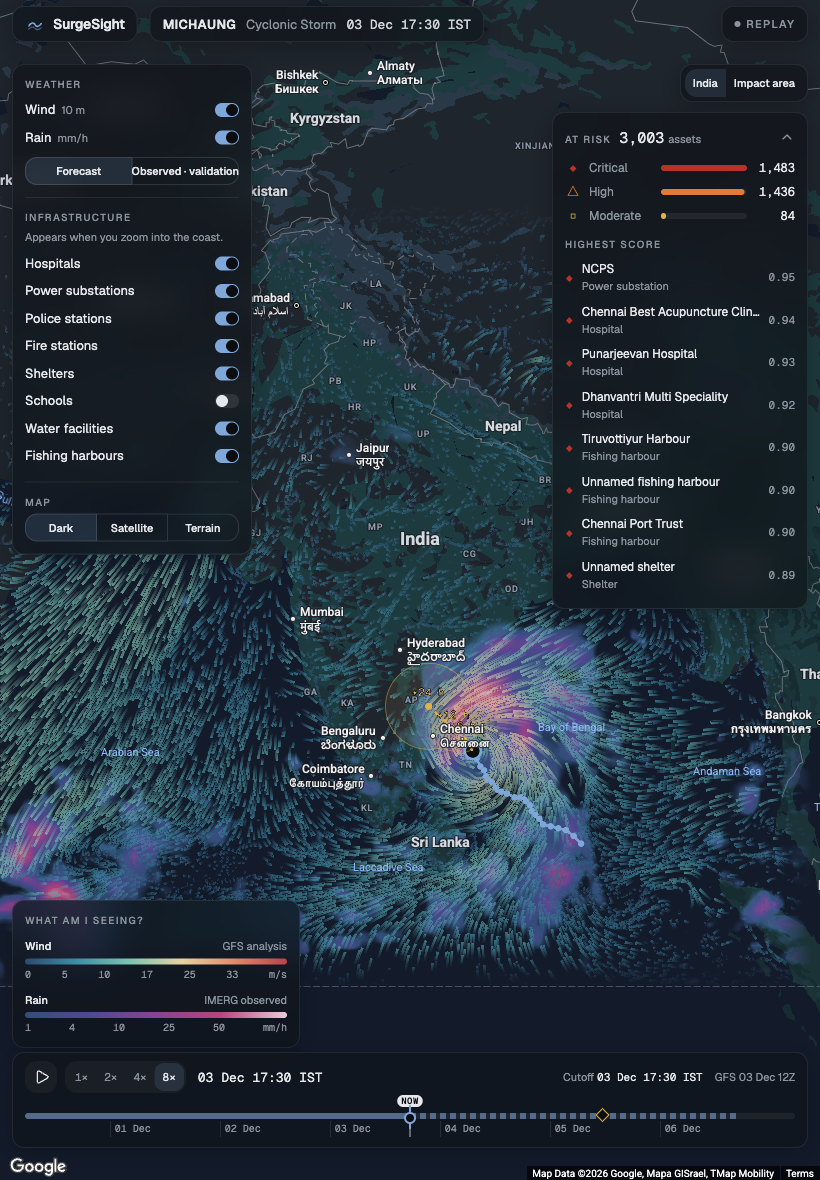
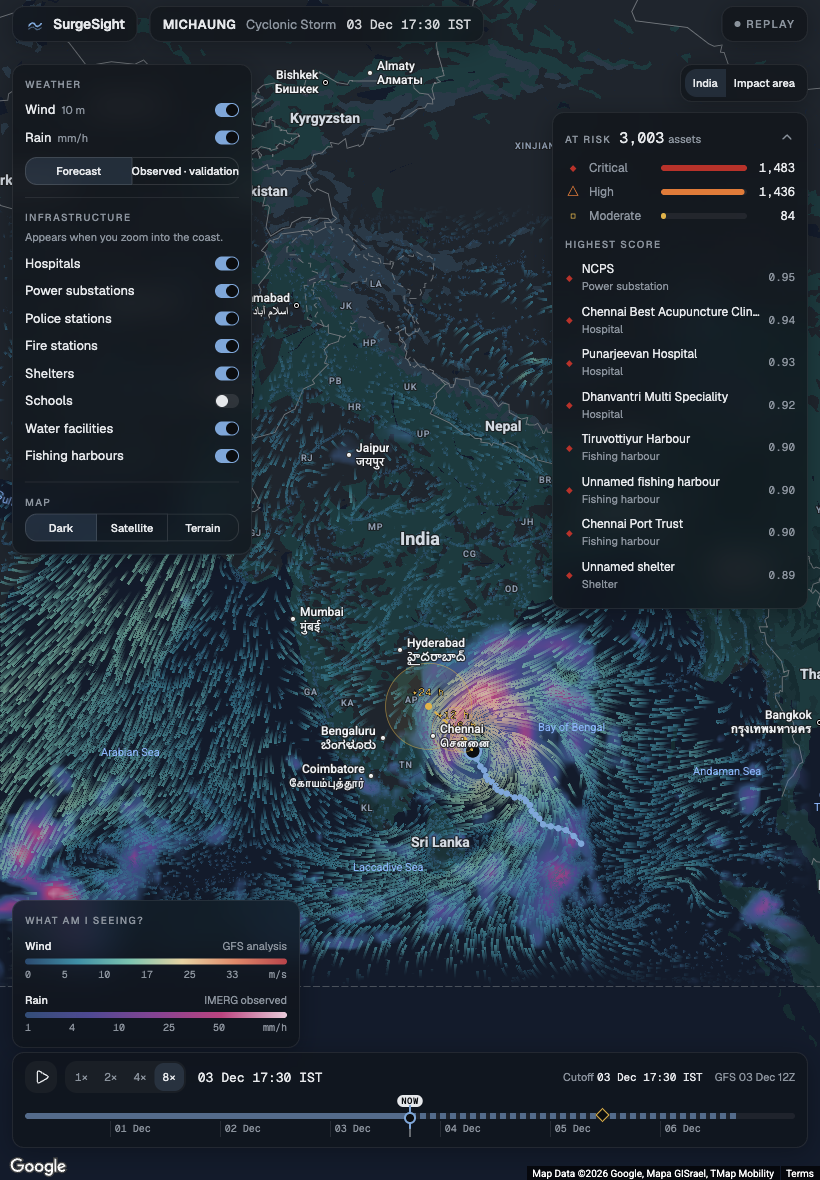
feat(web): add a landing page with live and storm tiles, path routing and a catalog API

diff --git a/frontend/src/app/Landing.tsx b/frontend/src/app/Landing.tsx
@@ -1,0 +1,85 @@
+import { useQuery } from '@tanstack/react-query'
+import { CloudSun, History } from 'lucide-react'
+import { api, type CatalogTile } from '@/lib/api'
+import { onLinkClick, pathFor } from './router'
+
+function Tile({ tile }: { tile: CatalogTile }) {
+  const live = tile.kind === 'live'
+  const ready = tile.status === 'available'
+  const path = pathFor(live ? { name: 'live' } : { name: 'storm', id: tile.id })
+  const Icon = live ? CloudSun : History
+  const body = (
+    <>
+      <div className="flex items-center justify-between">
+        <Icon className="size-5 text-primary" aria-hidden />
+        <span className={`rounded-full px-2 py-0.5 text-[10px] font-medium tracking-[0.12em] uppercase ${ready ? 'bg-primary/15 text-primary' : 'bg-white/5 text-muted-foreground'}`}>
+          {!ready ? 'Coming soon' : live ? 'Live' : 'Replay'}
+        </span>
+      </div>
+      <h2 className="mt-6 text-lg font-semibold tracking-tight">
+        {tile.name}
+        {tile.year && <span className="num ml-2 text-sm font-normal text-muted-foreground">{tile.year}</span>}
+      </h2>
+      <p className="mt-1.5 text-[13px] leading-relaxed text-muted-foreground">{tile.blurb}</p>
+    </>
+  )
+  const cls = 'panel flex min-h-44 flex-col p-5 text-left transition-colors'
+  return ready ? (
+    <a href={path} onClick={e => onLinkClick(e, path)} className={`${cls} hover:bg-white/[0.06] focus-visible:outline-2 focus-visible:outline-primary`}>
+      {body}
+    </a>
+  ) : (
+    <div className={`${cls} opacity-60`} aria-disabled="true">
+      {body}
+    </div>
+  )
+}
+
+export function Landing() {
+  const { data, isError, refetch } = useQuery({ queryKey: ['catalog'], queryFn: api.catalog, staleTime: 60_000 })
+  const live = data?.tiles.filter(t => t.kind === 'live') ?? []
+  const storms = data?.tiles.filter(t => t.kind === 'storm') ?? []
+  return (
+    <main className="min-h-full overflow-y-auto bg-background px-4 pt-[max(2rem,env(safe-area-inset-top))] pb-10">
+      <div className="mx-auto max-w-4xl">
+        <div className="flex items-center gap-2">
+          <svg viewBox="0 0 32 32" className="size-6" aria-hidden>
+            <path d="M6 19c4-6 8-6 10-2s6 4 10-2" fill="none" stroke="var(--primary)" strokeWidth="2.5" strokeLinecap="round" />
+            <path d="M6 24c4-4 8-4 10-1s6 3 10-1" fill="none" stroke="var(--primary)" strokeOpacity=".5" strokeWidth="2" strokeLinecap="round" />
+          </svg>
+          <span className="text-base font-semibold tracking-tight">SurgeSight</span>
+        </div>
+        <h1 className="mt-10 text-3xl font-semibold tracking-tight max-sm:text-2xl">Cyclone impact, before it lands</h1>
+        <p className="mt-3 max-w-2xl text-[15px] leading-relaxed text-muted-foreground">
+          A read-only view for officials and responders: weather across India, the storm track, and which hospitals, power stations and shelters are most exposed. No sign-in needed.
+        </p>
+
+        {isError && (
+          <div role="alert" className="panel mt-8 flex items-center justify-between gap-4 p-4 text-sm text-[#E0B34A]">
+            The list of views could not be loaded. Check the connection.
+            <button type="button" onClick={() => refetch()} className="rounded-lg px-3 py-1.5 text-foreground ring-1 ring-white/15 hover:bg-white/5">
+              Try again
+            </button>
+          </div>
+        )}
+
+        {live.length > 0 && (
+          <section aria-label="Live" className="mt-10">
+            <h2 className="mb-3 text-[10px] font-medium tracking-[0.14em] text-muted-foreground uppercase">Right now</h2>
+            <div className="grid gap-4 sm:grid-cols-2">{live.map(t => <Tile key={t.id} tile={t} />)}</div>
+          </section>
+        )}
+        {storms.length > 0 && (
+          <section aria-label="Past storms" className="mt-10">
+            <h2 className="mb-3 text-[10px] font-medium tracking-[0.14em] text-muted-foreground uppercase">Past storms</h2>
+            <div className="grid gap-4 sm:grid-cols-2 lg:grid-cols-3">{storms.map(t => <Tile key={t.id} tile={t} />)}</div>
+          </section>
+        )}
+
+        <p className="mt-12 max-w-2xl border-t border-white/10 pt-4 text-[12px] leading-relaxed text-muted-foreground">
+          SurgeSight is a screening tool for planning. It is not an official warning. For warnings, follow the India Meteorological Department and your state disaster management authority.
+        </p>
+      </div>
+    </main>
+  )
+}

diff --git a/frontend/src/app/App.tsx b/frontend/src/app/App.tsx
@@ -1,5 +1,5 @@
 import { useEffect } from 'react'
-import { QueryClient, QueryClientProvider } from '@tanstack/react-query'
+import { QueryClient, QueryClientProvider, useQuery } from '@tanstack/react-query'
 import { TooltipProvider } from '@/components/ui/tooltip'
 import { TrackSync } from './TrackSync'
 import { MapCanvas } from '@/map/MapCanvas'
@@ -9,10 +9,13 @@ import { Legend } from '@/panels/Legend'
 import { PerfOverlay } from '@/panels/PerfOverlay'
 import { TopBar } from '@/panels/TopBar'
 import { Timeline } from '@/timeline/Timeline'
+import { api } from '@/lib/api'
 import { loadAssets } from '@/data/assets'
 import { AtRisk } from '@/panels/AtRisk'
 import { AssetPopover } from '@/panels/AssetPopover'
 import { Intro } from '@/panels/Intro'
+import { Landing } from './Landing'
+import { onLinkClick, useRoute } from './router'
 import { ViewSwitch } from '@/panels/ViewSwitch'
 import { loadWeather } from '@/weather/atlas'
 import { useWeather } from '@/weather/useWeather'
@@ -33,30 +36,67 @@ function LoadingNote() {
   )
 }
 
-export default function App() {
+function Dashboard() {
   useEffect(() => {
     void loadWeather()
     void loadAssets()
   }, [])
   return (
+    <TooltipProvider delayDuration={300}>
+      <main className="relative h-full w-full overflow-hidden bg-background">
+        <TrackSync />
+        <MapCanvas />
+        <TopBar />
+        <ViewSwitch />
+        <AtRisk />
+        <LayerCard />
+        <Legend />
+        <Timeline />
+        <CursorReadout />
+        <AssetPopover />
+        <LoadingNote />
+        <Intro />
+        {showPerf && <PerfOverlay />}
+      </main>
+    </TooltipProvider>
+  )
+}
+
+function LiveSoon() {
+  return (
+    <main className="grid h-full place-items-center bg-background px-6 text-center">
+      <div>
+        <p className="text-lg font-semibold">Live weather is not connected yet</p>
+        <a href="/" onClick={e => onLinkClick(e, '/')} className="mt-3 inline-block text-sm text-primary underline">Back to all views</a>
+      </div>
+    </main>
+  )
+}
+
+/** Opens a storm only when the catalog says its data is ready; anything else goes back to the list. */
+function StormGate({ id }: { id: string }) {
+  const { data, isError } = useQuery({ queryKey: ['catalog'], queryFn: api.catalog, staleTime: 60_000 })
+  if (isError) return <Dashboard />
+  if (!data) return <main className="grid h-full place-items-center bg-background text-sm text-muted-foreground">Loading…</main>
+  if (!data.tiles.some(t => t.id === id && t.kind === 'storm' && t.status === 'available'))
+    return (
+      <main className="grid h-full place-items-center bg-background px-6 text-center">
+        <div>
+          <p className="text-lg font-semibold">This storm is not available yet</p>
+          <a href="/" onClick={e => onLinkClick(e, '/')} className="mt-3 inline-block text-sm text-primary underline">Back to all views</a>
+        </div>
+      </main>
+    )
+  return <Dashboard />
+}
+
+export default function App() {
+  const route = useRoute()
+  return (
     <QueryClientProvider client={queryClient}>
-      <TooltipProvider delayDuration={300}>
-        <main className="relative h-full w-full overflow-hidden bg-background">
-          <TrackSync />
-          <MapCanvas />
-          <TopBar />
-          <ViewSwitch />
-          <AtRisk />
-          <LayerCard />
-          <Legend />
-          <Timeline />
-          <CursorReadout />
-          <AssetPopover />
-          <LoadingNote />
-          <Intro />
-          {showPerf && <PerfOverlay />}
-        </main>
-      </TooltipProvider>
+      {route.name === 'landing' && <Landing />}
+      {route.name === 'live' && <LiveSoon />}
+      {route.name === 'storm' && <StormGate id={route.id} />}
     </QueryClientProvider>
   )
 }

diff --git a/frontend/src/app/router.ts b/frontend/src/app/router.ts
@@ -1,0 +1,43 @@
+/** A minimal path router: three screens do not need a routing library. */
+
+import { useSyncExternalStore } from 'react'
+
+export type Route = { name: 'landing' } | { name: 'live' } | { name: 'storm'; id: string }
+
+export function parseRoute(path: string): Route {
+  const parts = path.split('/').filter(Boolean)
+  if (parts[0] === 'live' && parts.length === 1) return { name: 'live' }
+  if (parts[0] === 'storm' && parts.length === 2) return { name: 'storm', id: decodeURIComponent(parts[1]) }
+  return { name: 'landing' }
+}
+
+export const pathFor = (r: Route): string => (r.name === 'landing' ? '/' : r.name === 'live' ? '/live' : `/storm/${encodeURIComponent(r.id)}`)
+
+const listeners = new Set<() => void>()
+const subscribe = (fn: () => void) => {
+  listeners.add(fn)
+  window.addEventListener('popstate', fn)
+  return () => {
+    listeners.delete(fn)
+    window.removeEventListener('popstate', fn)
+  }
+}
+
+export function navigate(path: string): void {
+  if (path === location.pathname) return
+  history.pushState(null, '', path)
+  listeners.forEach(fn => fn())
+}
+
+const snapshot = () => location.pathname
+
+export function useRoute(): Route {
+  return parseRoute(useSyncExternalStore(subscribe, snapshot))
+}
+
+/** A link that navigates without a reload but still works with middle-click and "open in new tab". */
+export function onLinkClick(e: React.MouseEvent<HTMLAnchorElement>, path: string): void {
+  if (e.metaKey || e.ctrlKey || e.shiftKey || e.button !== 0) return
+  e.preventDefault()
+  navigate(path)
+}

diff --git a/frontend/src/panels/TopBar.tsx b/frontend/src/panels/TopBar.tsx
@@ -1,3 +1,4 @@
+import { onLinkClick } from '@/app/router'
 import { useTimeline } from '@/app/queries'
 import { imdClass, trackAt } from '@/lib/imd'
 import { formatIST } from '@/lib/format'
@@ -11,13 +12,13 @@ export function TopBar() {
 
   return (
     <header className="pointer-events-none absolute inset-x-0 top-0 z-20 flex h-12 items-center gap-3 px-3 pt-[env(safe-area-inset-top)]">
-      <div className="panel pointer-events-auto flex h-9 items-center gap-2 px-3">
+      <a href="/" onClick={e => onLinkClick(e, '/')} aria-label="SurgeSight, all views" className="panel pointer-events-auto flex h-9 items-center gap-2 px-3 hover:bg-white/[0.06]">
         <svg viewBox="0 0 32 32" className="size-5" aria-hidden>
           <path d="M6 19c4-6 8-6 10-2s6 4 10-2" fill="none" stroke="var(--primary)" strokeWidth="2.5" strokeLinecap="round" />
           <path d="M6 24c4-4 8-4 10-1s6 3 10-1" fill="none" stroke="var(--primary)" strokeOpacity=".5" strokeWidth="2" strokeLinecap="round" />
         </svg>
         <span className="text-sm font-semibold tracking-tight">SurgeSight</span>
-      </div>
+      </a>
 
       <div className="panel pointer-events-auto flex h-9 min-w-0 items-center gap-2.5 px-3 text-[13px]">
         <span className="font-semibold tracking-wide">{timeline?.cyclone ?? '…'}</span>

diff --git a/frontend/src/lib/api.ts b/frontend/src/lib/api.ts
@@ -54,7 +54,17 @@ async function get<T>(path: string): Promise<T> {
   return (await res.json()) as T
 }
 
+export interface CatalogTile {
+  id: string
+  kind: 'live' | 'storm'
+  name: string
+  year?: number
+  blurb: string
+  status: 'available' | 'soon'
+}
+
 export const api = {
+  catalog: () => get<{ tiles: CatalogTile[] }>('/api/catalog'),
   timeline: () => get<Timeline>('/api/timeline'),
   forecast: (cutoff: string) => get<ExperimentalForecast>(`/api/forecast/experimental?cutoff=${encodeURIComponent(cutoff)}`),
   assets: () => get<AssetColumns>('/api/assets?format=columnar'),

diff --git a/scripts/test_api.py b/scripts/test_api.py
@@ -32,7 +32,7 @@ EXPECTED = {
     "/api/ensemble", "/api/forecast/experimental", "/api/hazards/{run_id}", "/api/exposure/{run_id}", "/api/validation/satellite/{run_id}",
     "/api/advisory", "/api/tts", "/api/cap/{item_id}", "/api/parametric/{run_id}", "/api/dispatch", "/api/dispatch/{dispatch_id}/approve",
     "/api/dispatch/{dispatch_id}/reject", "/api/agent", "/tasks/poll", "/tasks/process", "/runs/{run_id}", "/healthz",
-    "/api/weather/manifest", "/api/weather/{file}", "/api/timeline", "/api/layers/{name}", "/api/me", "/api/voice/ask",
+    "/api/catalog", "/api/weather/manifest", "/api/weather/{file}", "/api/timeline", "/api/layers/{name}", "/api/me", "/api/voice/ask",
 }
 
 
@@ -68,6 +68,8 @@ def test_assets() -> None:
 
 
 def test_web_routes() -> None:
+    tiles = {t["id"]: t for t in ok(client.get("/api/catalog")).json()["tiles"]}
+    assert tiles["michaung_2023"]["status"] == "available" and tiles["fani_2019"]["status"] == "soon" and tiles["live"]["kind"] == "live"
     manifest = ok(client.get("/api/weather/manifest")).json()
     assert manifest["analysis_wind"]["frames"] and len(manifest["forecast"]) == 15
     assert len(manifest["version"]) == 10 and client.get("/api/weather/manifest").headers["cache-control"] == "no-cache", "the manifest must carry a version and never be cached"

diff --git a/api/routes_web.py b/api/routes_web.py
@@ -18,7 +18,7 @@ from api.deps import require_region
 from api.routes_ops import Language
 from services import weather_frames as wf
 from services.agent.builtin_tools import jsonable
-from services.config import load_region
+from services.config import PROJECT_ROOT, list_regions, load_region
 
 router = APIRouter()
 IMMUTABLE = {"Cache-Control": "public, max-age=31536000, immutable"}
@@ -33,6 +33,21 @@ def atlas_version() -> str:
         st = f.stat()
         h.update(f"{f.name}:{st.st_size}:{st.st_mtime_ns}".encode())
     return h.hexdigest()[:10]
+
+
+@router.get("/api/catalog")
+def regions() -> dict[str, Any]:
+    """Landing page tiles: the live weather view and each storm, with whether its data is ready."""
+    import tomllib
+
+    catalog = tomllib.loads((PROJECT_ROOT / "config" / "catalog.toml").read_text(encoding="utf-8"))
+    known = set(list_regions())
+    live_ready = (PROJECT_ROOT / "data" / "processed" / "live" / "manifest.json").is_file()
+    tiles = []
+    for tile in catalog["tile"]:
+        ready = live_ready if tile["kind"] == "live" else tile.get("region") in known
+        tiles.append({**tile, "status": "available" if ready else "soon"})
+    return {"tiles": tiles}
 
 
 @router.get("/api/weather/manifest")
